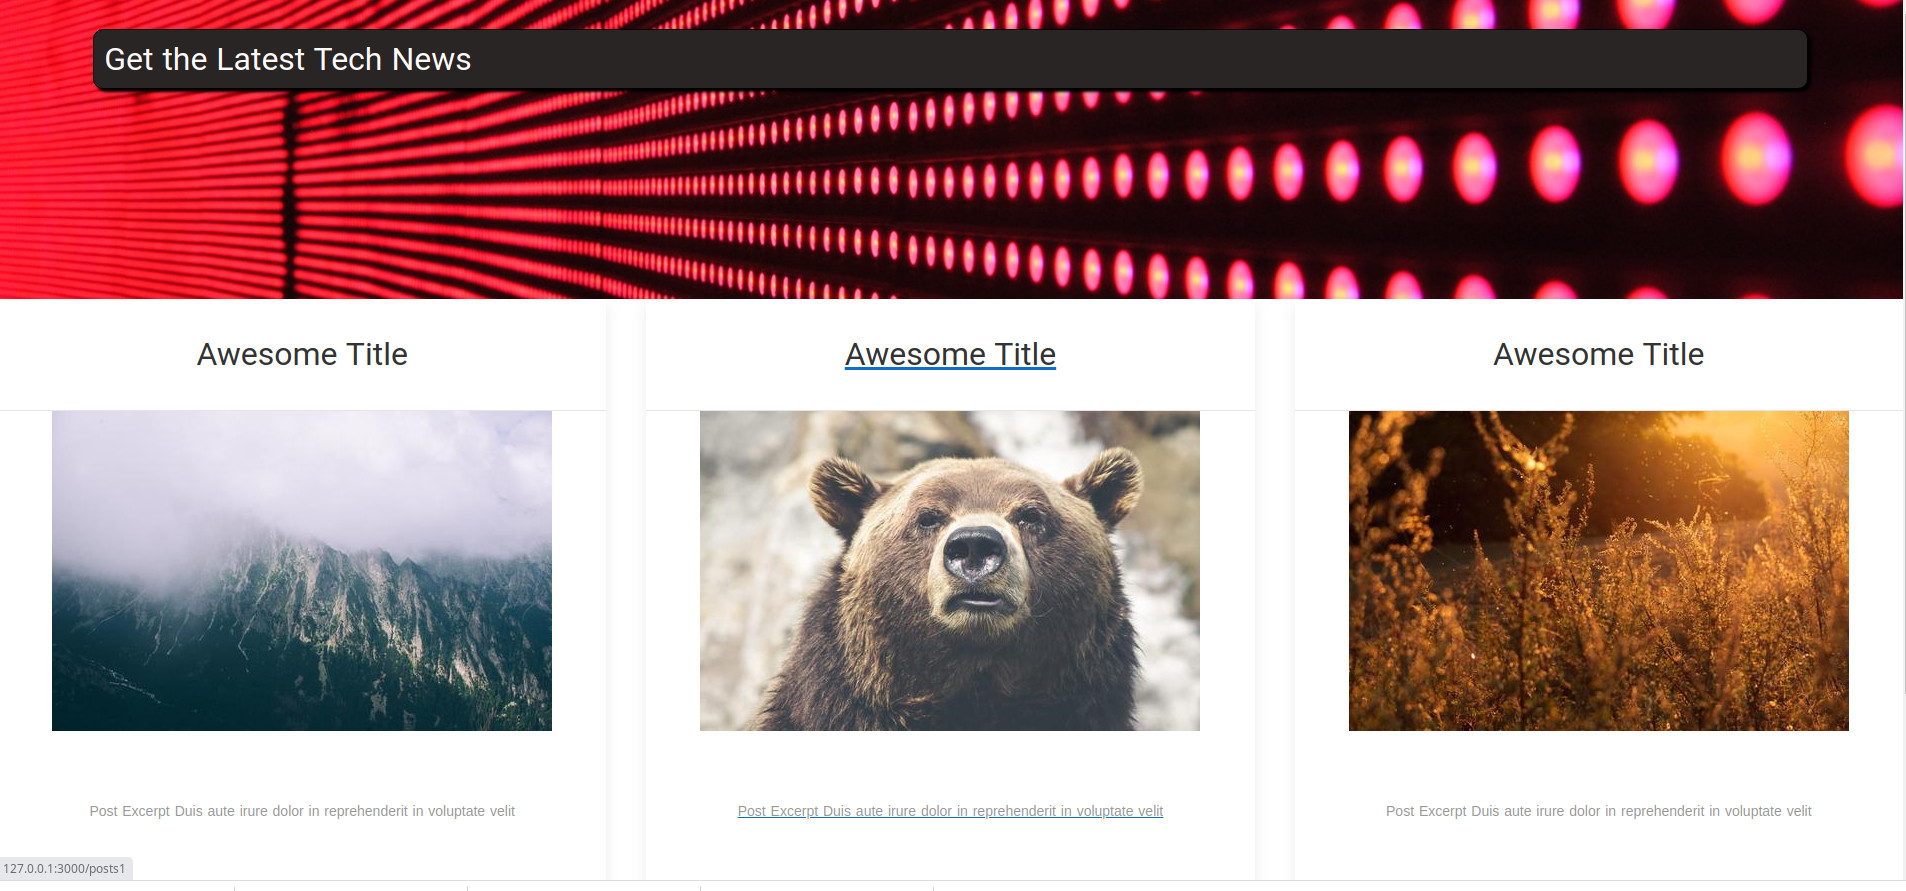
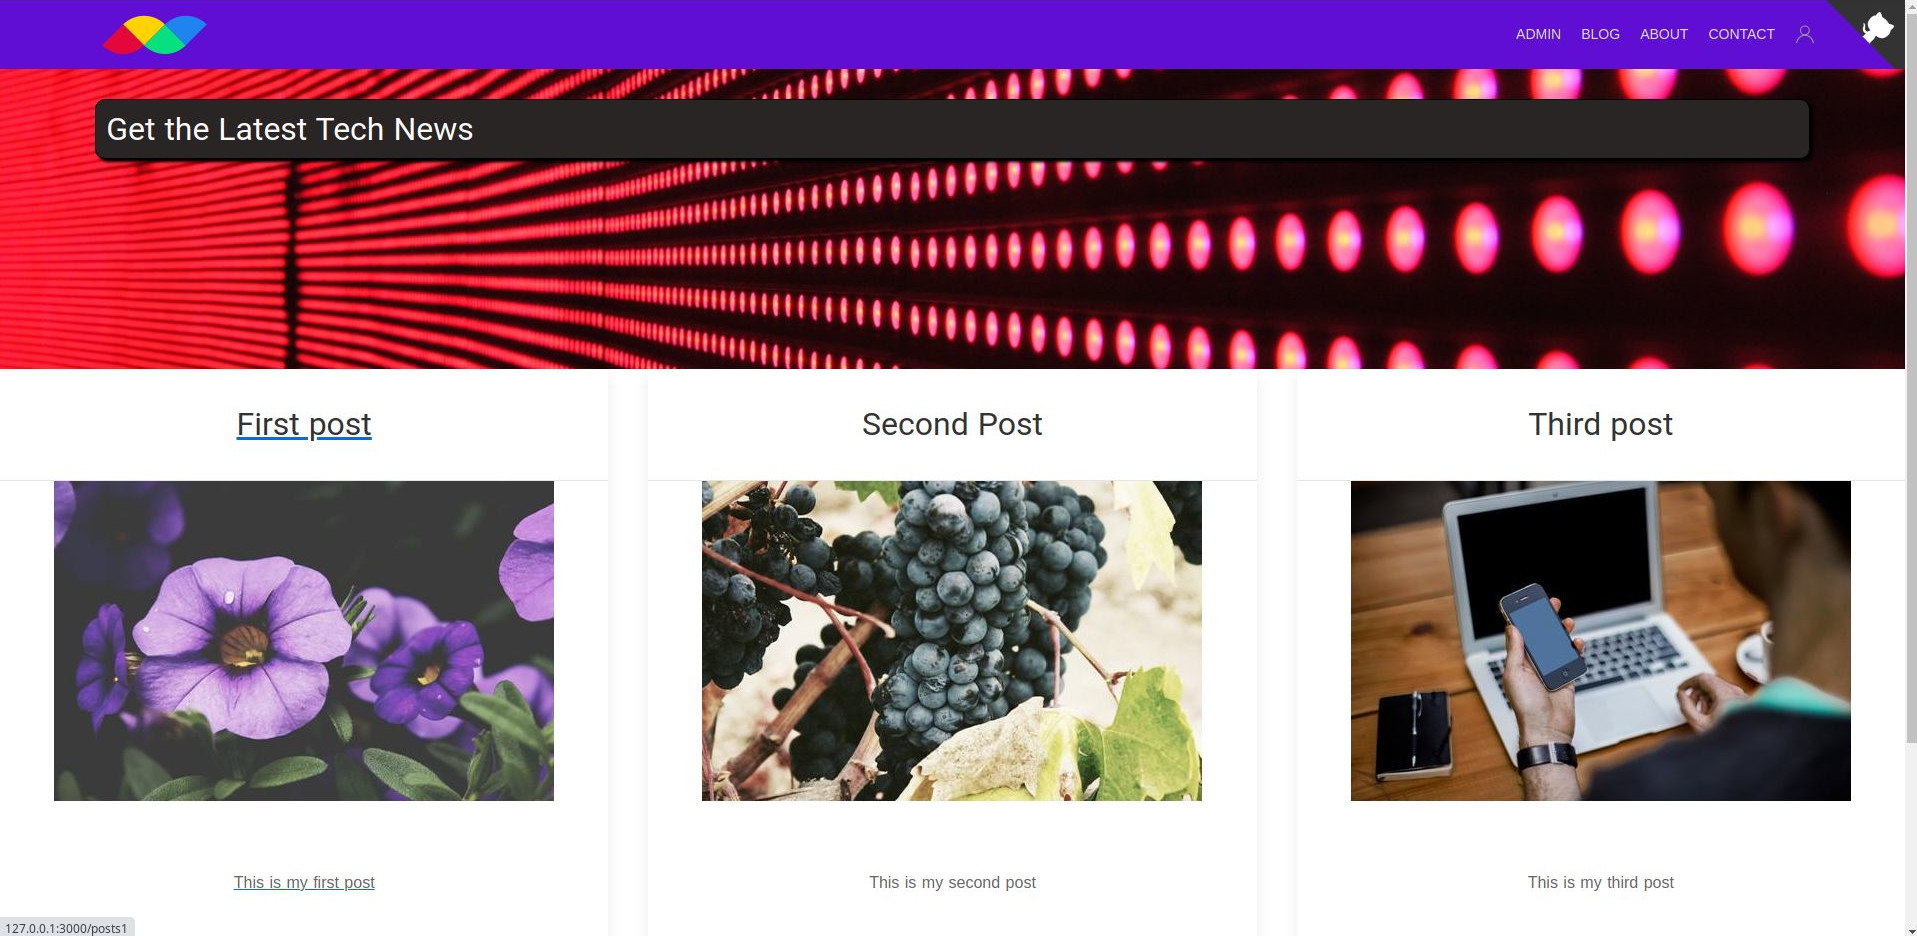
Header

diff --git a/components/ForkThis.vue b/components/ForkThis.vue
@@ -1,0 +1,47 @@
+<template>
+  <div>
+    <a href="https://github.com/xhostcom/vue-uikit-ecommerce-strapi-auth0-auth" class="github-corner" aria-label="View source on Github">
+      <svg width="80" height="80" viewBox="0 0 250 250" aria-hidden="true">
+        <path d="M0,0 L115,115 L130,115 L142,142 L250,250 L250,0 Z" />
+        <path d="M128.3,109.0 C113.8,99.7 119.0,89.6 119.0,89.6 C122.0,82.7 120.5,78.6 120.5,78.6 C119.2,72.0 123.4,76.3 123.4,76.3 C127.3,80.9 125.5,87.3 125.5,87.3 C122.9,97.6 130.6,101.9 134.4,103.2" fill="currentColor" class="octo-arm" />
+        <path d="M115.0,115.0 C114.9,115.1 118.7,116.5 119.8,115.4 L133.7,101.6 C136.9,99.2 139.9,98.4 142.2,98.6 C133.8,88.0 127.5,74.4 143.8,58.0 C148.5,53.4 154.0,51.2 159.7,51.0 C160.3,49.4 163.2,43.6 171.4,40.1 C171.4,40.1 176.1,42.5 178.8,56.2 C183.1,58.6 187.2,61.8 190.9,65.4 C194.5,69.0 197.7,73.2 200.1,77.6 C213.8,80.2 216.3,84.9 216.3,84.9 C212.7,93.1 206.9,96.0 205.4,96.6 C205.1,102.4 203.0,107.8 198.3,112.5 C181.9,128.9 168.3,122.5 157.7,114.1 C157.9,116.9 156.7,120.9 152.7,124.9 L141.0,136.5 C139.8,137.7 141.6,141.9 141.8,141.8 Z" fill="currentColor" />
+      </svg>
+    </a>
+  </div>
+</template>
+
+<style scoped>
+.github-corner:hover .octo-arm {
+  animation: octocat-wave 560ms ease-in-out;
+}
+svg {
+  fill: #333;
+  color: #fff;
+  position: absolute;
+  top: 0;
+  right: 0;
+  border: 0;
+}
+.octo-arm {
+  transform-origin: 130px 106px;
+}
+@keyframes octocat-wave {
+  0%, 100% {
+    transform: rotate(0);
+  }
+  20%, 60% {
+    transform: rotate(-25deg);
+  }
+  40%, 80% {
+    transform: rotate(10deg);
+  }
+}
+@media (max-width: 500px) {
+  .github-corner:hover .octo-arm {
+    animation: none;
+  }
+  .github-corner .octo-arm {
+    animation: octocat-wave 560ms ease-in-out;
+  }
+}
+</style>

diff --git a/components/BaseHeader.vue b/components/BaseHeader.vue
@@ -1,0 +1,54 @@
+<template>
+<header id="site-head">
+			<div class="uk-container uk-container-expand">
+				<div class="uk-grid uk-grid-medium uk-flex uk-flex-middle uk-flex-between" data-uk-grid>
+					<div class="uk-width-auto" id="logo">
+				    <NuxtLink to="/" class="uk-logo" title="eCommerce"><img src="logo.png" alt="Logo"></NuxtLink>
+					</div>
+				    <div class="uk-width-auto">
+					 <ul class="uk-subnav" data-uk-margin>
+						  <li class="uk-visible@s"><NuxtLink to="/" exact>Admin</NuxtLink></li>
+						   <li class="uk-visible@s"><NuxtLink to="/contact">Blog</NuxtLink></li>
+							<li class="uk-visible@s"><NuxtLink to="/contact">About</NuxtLink></li>
+					        <li class="uk-visible@s"><NuxtLink to="/contact">Contact</NuxtLink></li>
+				            <NuxtLink to="/login" data-uk-icon="icon:user"></NuxtLink>
+							<li class="uk-hidden@s"><a data-uk-navbar-toggle-icon data-uk-toggle href="#offcanvas-nav"></a></li>
+					       </ul>
+					</div>
+				</div>
+			</div>
+           <fork-this/>
+		</header>
+     <!--/HEADER-->
+</template>
+<script>
+import ForkThis from '~/components/ForkThis'
+import { mapGetters } from 'vuex'
+export default {
+  components: {
+    ForkThis
+ },
+computed: mapGetters(['isAuthenticated'])
+}
+</script>
+<style scoped>
+#site-head {
+background-color: #600dd4;
+padding-right: 50px;
+padding-left: 30px;
+}
+#site-head a {
+color:gainsboro;
+}
+#site-head a:hover {
+color:whitesmoke;
+}
+
+h4.uk-margin-small-bottom {
+text-transform: uppercase;
+font-size: 1em;
+}
+li.uk-visible@s a {
+padding-right: 20px;
+}
+</style>

diff --git a/components/OffCanvas.vue b/components/OffCanvas.vue
@@ -1,0 +1,24 @@
+<template>
+ <!-- OFFCANVAS -->
+		<div id="offcanvas-nav" data-uk-offcanvas="flip: true; overlay: true">
+			<div class="uk-offcanvas-bar uk-offcanvas-bar-animation uk-offcanvas-slide">
+				<button class="uk-offcanvas-close uk-close uk-icon" type="button" data-uk-close></button>
+			    <ul class="uk-nav uk-nav-offcanvas uk-nav-parent-icon" data-uk-nav="{ multiple: true }">
+					<li class="uk-nav-header">Menu</li>
+					<li><a href="#js-options"><span class="uk-margin-small-right uk-icon" data-uk-icon="icon: table"></span>Admin</a></li>
+					<li><a href="#"><span class="uk-margin-small-right uk-icon" data-uk-icon="icon: table"></span> Blog</a></li>
+					<li class="uk-nav-divider"></li>
+					<li><a href="#"><span class="uk-margin-small-right uk-icon" data-uk-icon="icon: table"></span> About</a></li>
+					<li><a href="#"><span class="uk-margin-small-right uk-icon" data-uk-icon="icon: table"></span> Contact</a></li>
+				</ul>
+				<h3>Information</h3>
+				<p>Vue dynamic blog using UIKit 3, Nuxt Js and Vue JS, Auth0, Axios, PWA, Jest, with Off Canvas and other UIKit components.</p>
+				<NuxtLink to="/login" id="login" class="uk-button uk-button-primary uk-border-rounded uk-align-center">Login</NuxtLink>
+			</div>
+		</div>
+		<!-- /OFFCANVAS -->
+</template>
+
+<style scoped>
+
+</style>

diff --git a/pages/index.vue b/pages/index.vue
@@ -7,25 +7,23 @@
   <div class="uk-child-width-expand@s uk-text-center" uk-grid>
   <PostPreview
   id="1"
-  thumbnail="https://picsum.photos/500/320" 
+  thumbnail="https://picsum.photos/500/320?random=1" 
   title="First post"
   previewText="This is my first post"/>
   <PostPreview
-  id="1"
-  thumbnail="https://picsum.photos/500/320" 
+  id="2"
+  thumbnail="https://picsum.photos/500/320?random=2" 
   title="Second Post"
   previewText="This is my second post"/>
   <PostPreview
-  id="1"
-  thumbnail="https://picsum.photos/500/320" 
+  id="3"
+  thumbnail="https://picsum.photos/500/320?random=3" 
   title="Third post"
   previewText="This is my third post"/>
 </div>
 </section>
 </div>
 <!-- card -->
-				
-  
 </template>
 
 <style scoped>

diff --git a/components/PostPreview.vue b/components/PostPreview.vue
@@ -2,14 +2,14 @@
  <nuxt-link class="post-preview" :to="'/posts' + id">
  <div class="uk-card uk-card-large uk-card-default">
 							<div class="uk-card-header">
-                            <h2>{{ title }}</h2>
+              <h2>{{ title }}</h2>
 							</div>
 							 <div class="uk-card-media-top">
-                             <img 
+               <img 
 							 :data-src="thumbnail" alt="" uk-img>
-                             </div>
+               </div>
 						   <div class="uk-card-body">
-				            <p class="uk-text-medium">{{ previewText }}</p>
+				      <p class="uk-text-medium">{{ previewText }}</p>
 	</div>
   </div>
 </nuxt-link>

diff --git a/components/BaseFooter.vue b/components/BaseFooter.vue
@@ -21,7 +21,7 @@
 <style scoped>
 .tm-footer {
 padding-top: 50px;
-background: #292525;
+background: #600dd4;
 }
 .uk-subnav a {
 color: lightgray;

diff --git a/layouts/default.vue b/layouts/default.vue
@@ -1,7 +1,9 @@
 <template>
   <div>
+   <BaseHeader />
     <Nuxt />
   <BaseFooter />
+  <OffCanvas />
   </div>
 </template>
 
